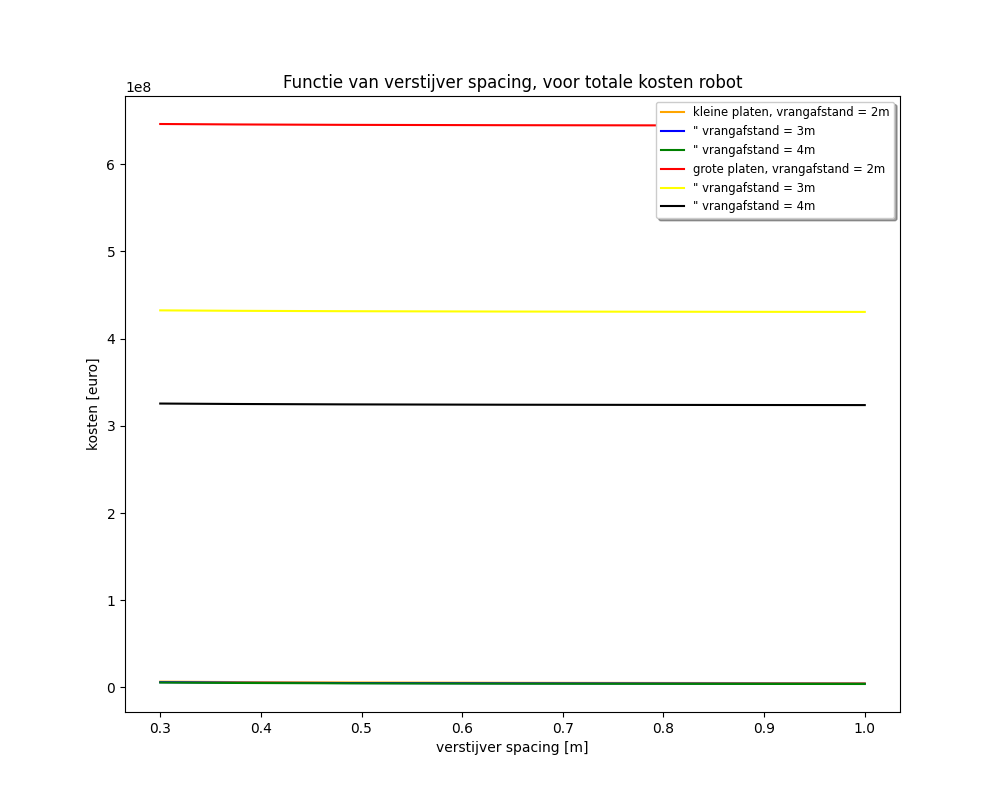
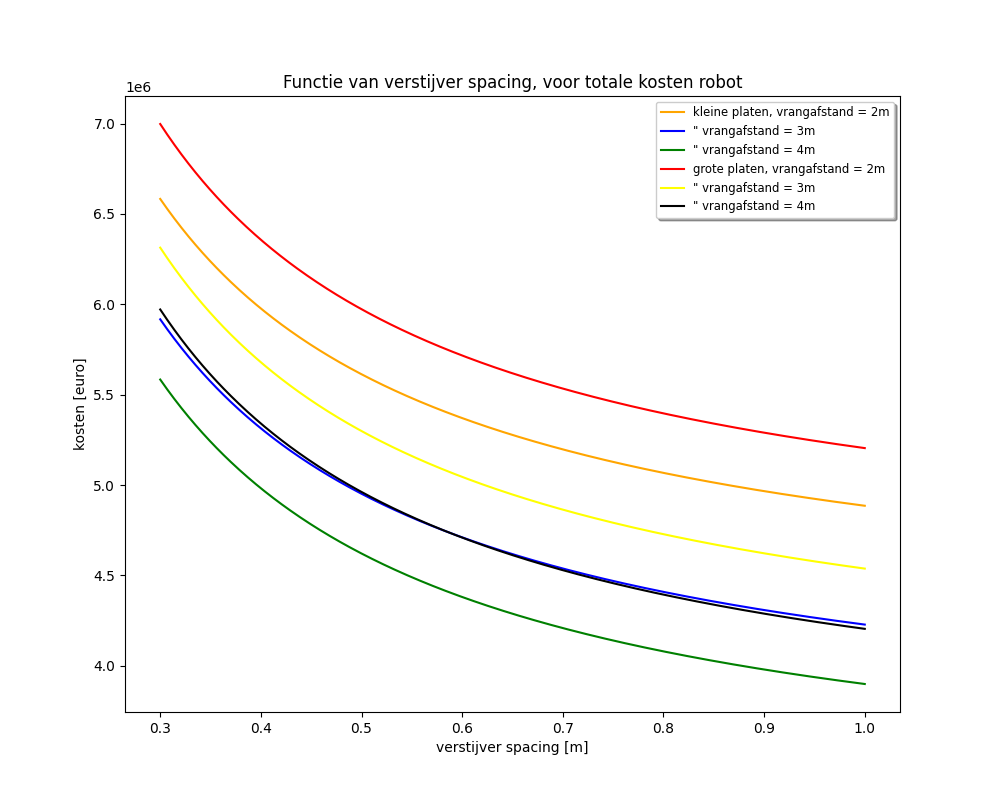
hopa

diff --git a/plaatproductie/plaatproductie nieuw.py b/plaatproductie/plaatproductie nieuw.py
@@ -63,7 +63,7 @@ class totaal():
 
         personeel = aantal_jaar*(3295+25*nspant+200*nvrang)
 
-        vastekosten = 151773.33
+        vastekosten = 2*151773.33
 
         totaal = materiaal + personeel + vastekosten 
         return totaal
@@ -85,7 +85,7 @@ class totaal():
 
         materiaal = 35521200*tp + 3415500/sg + 355212000*A_bulb/ss-118404000*A_bulb+1138500+3900*tp*Llas
 
-        personeel = aantal_jaar*(3933+27*nspant+180*nvrang)
+        personeel = aantal_jaar*(3933+27*nspant+180*nvrang)*(3/5)
 
         vastekosten = 106260+229166.67*((43.7+0.3*nspant+2*nvrang)*137/8400)
 
@@ -109,7 +109,7 @@ class totaal():
 
         materiaal = 35521200*tp + 3415500/sg + 355212000*A_bulb/ss-118404000*A_bulb+1138500+3900*tp*Llas
 
-        personeel = aantal_jaar*(7965+27*nspant+4320*260*nvrang)
+        personeel = aantal_jaar*(7965+27*nspant+260*nvrang)*(3/5)
 
         vastekosten = 106260+250000*((88.5+0.3*nspant+4*nvrang)*159/8400)
 
@@ -283,7 +283,7 @@ class personeel():
 
         materiaal = aantal_jaar*4*(Lp*Bp*7800*tp+Bp*75*Lp/sg+(Bp/ss-1)*Lp*A_bulb*7800+Lp*75)+0.5*7800*tp*Llas
 
-        personeel = aantal_jaar*(3933+27*nspant+180*nvrang)
+        personeel = aantal_jaar*(3933+27*nspant+180*nvrang)*(3/5)
 
         vastekosten = 106260+229166.67*((43.7+0.3*nspant+2*nvrang)*137/8400)
 
@@ -307,7 +307,7 @@ class personeel():
 
         materiaal = aantal_jaar*8*(Lp*Bp*7800*tp+Bp*75*Lp/sg+(Bp/ss-1)*Lp*A_bulb*7800+Lp*75)+0.5*7800*tp*Llas
 
-        personeel = aantal_jaar*(7965+27*nspant+360*nvrang)
+        personeel = aantal_jaar*(7965+27*nspant+360*nvrang)*(3/5)
 
         vastekosten = 106260+250000*((88.5+0.3*nspant+4*nvrang)*159/8400)
 
@@ -360,7 +360,7 @@ class vastekosten():
 
         personeel = aantal_jaar*(3295+25*nspant+200*nvrang)
 
-        vastekosten = 151773.33 *ss/ss
+        vastekosten = 2*151773.33 *ss/ss
 
         totaal = materiaal + personeel + vastekosten 
         return vastekosten
@@ -412,6 +412,7 @@ class vastekosten():
 
         totaal = materiaal + personeel + vastekosten 
         return vastekosten
+
 
 
 def plot(klein,groot,titel):
